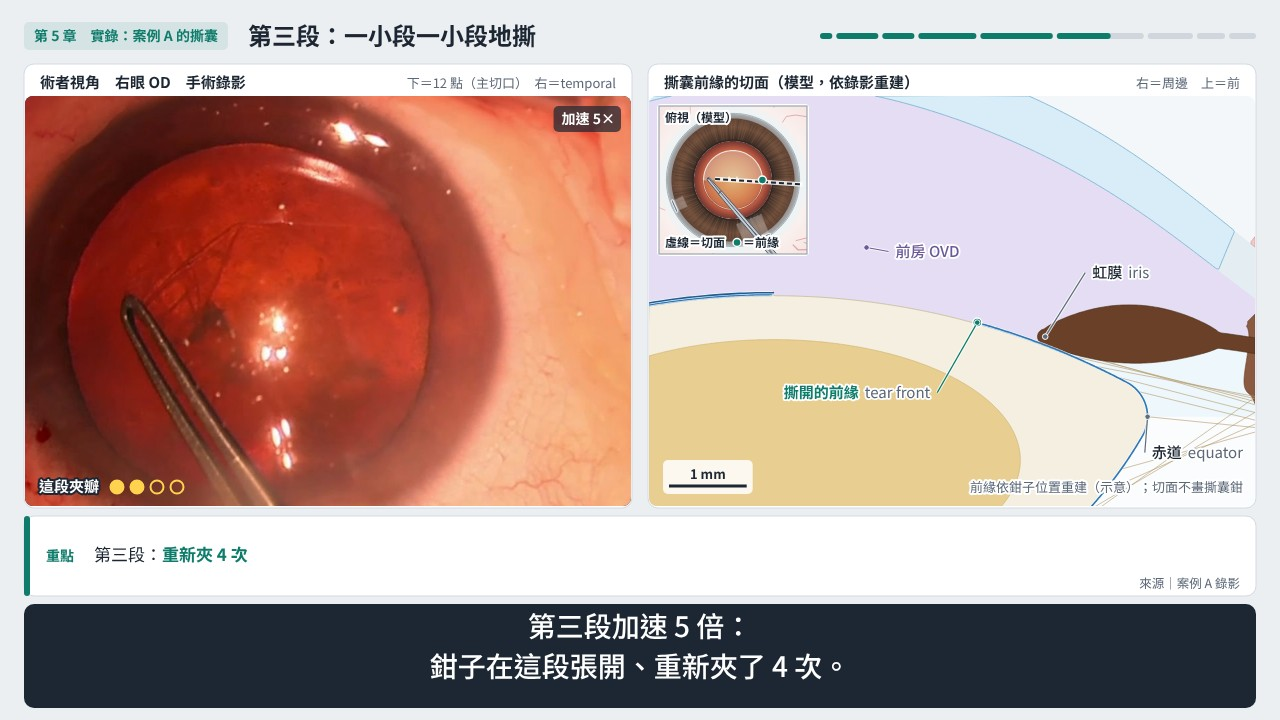
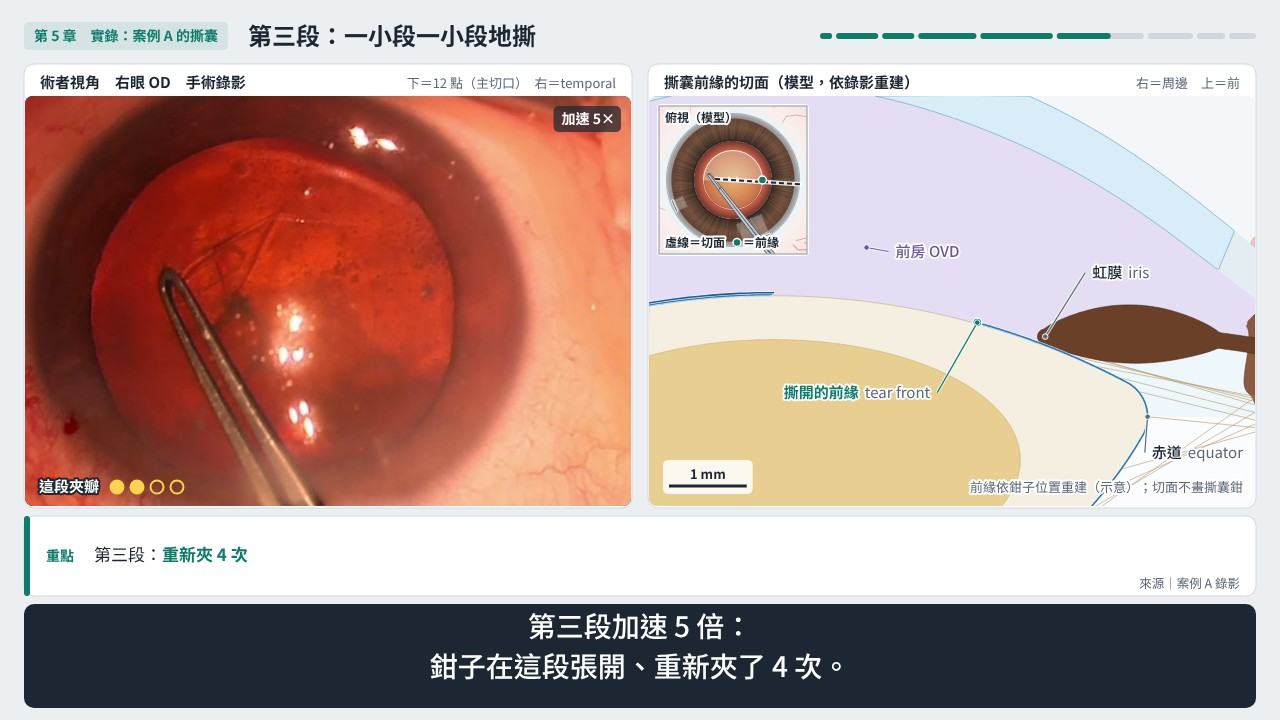
白內障 ①：5-6 旁白照錄影順序改成「先補 OVD 再擦血」；片段播完停在最後一格時標「停格」
重新合成語音後時間軸微移（551.9→552.4 s），6 張參考圖換成相鄰的錄影格（Claude 自檢）；發佈檔的章節時間同步。

Claude-Session: https://claude.ai/code/session_01UTYneMUKRrc1Hex89Apcyj

diff --git a/videos/src/cataract-1-wound-ccc/anim/timeline.js b/videos/src/cataract-1-wound-ccc/anim/timeline.js
@@ -1,1 +1,1 @@
-window.TIMELINE = {"segs": {"title": {"t0": 0.0, "t1": 16.752, "lines": [[1.0, 6.261], [6.711, 12.137], [12.587, 15.552]]}, "c1": {"t0": 16.752, "t1": 19.552, "lines": []}, "1-1": {"t0": 19.552, "t1": 45.095, "lines": [[20.252, 23.553], [24.003, 28.379], [28.829, 33.82], [34.27, 36.651], [37.101, 43.895]]}, "1-2": {"t0": 45.095, "t1": 74.155, "lines": [[45.795, 51.22], [51.67, 57.523], [57.973, 62.161], [62.611, 67.049], [67.499, 72.955]]}, "c2": {"t0": 74.155, "t1": 76.955, "lines": []}, "2-1": {"t0": 76.955, "t1": 95.08, "lines": [[77.655, 80.332], [80.782, 85.356], [85.806, 90.334], [90.784, 93.88]]}, "2-2": {"t0": 95.08, "t1": 117.996, "lines": [[95.78, 99.586], [100.036, 103.827], [104.277, 111.412], [111.862, 116.796]]}, "c3": {"t0": 117.996, "t1": 120.796, "lines": []}, "3-1": {"t0": 120.796, "t1": 140.872, "lines": [[121.496, 125.6], [126.05, 130.948], [131.398, 134.734], [135.184, 139.672]]}, "3-2": {"t0": 140.872, "t1": 173.731, "lines": [[141.572, 144.33], [144.78, 150.821], [151.271, 157.049], [157.499, 164.074], [164.524, 172.531]]}, "3-3": {"t0": 173.731, "t1": 197.223, "lines": [[174.431, 179.091], [179.541, 185.043], [185.493, 191.2], [191.65, 196.023]]}, "c4": {"t0": 197.223, "t1": 200.023, "lines": []}, "4-1": {"t0": 200.023, "t1": 237.651, "lines": [[200.723, 203.099], [203.549, 206.677], [207.127, 210.75], [211.2, 218.935], [219.385, 223.829], [224.279, 230.779], [231.229, 236.451]]}, "4-2": {"t0": 237.651, "t1": 263.702, "lines": [[238.351, 241.024], [241.474, 246.867], [247.317, 251.363], [251.813, 256.92], [257.37, 262.502]]}, "4-3": {"t0": 263.702, "t1": 296.112, "lines": [[264.402, 267.569], [268.019, 271.442], [271.892, 275.84], [276.29, 281.829], [282.279, 289.127], [289.577, 294.912]]}, "c5": {"t0": 296.112, "t1": 298.912, "lines": []}, "5-1": {"t0": 298.912, "t1": 322.658, "lines": [[299.612, 304.65], [305.1, 306.209], [306.659, 311.38], [311.83, 316.541], [316.991, 320.158]]}, "5-2": {"t0": 322.658, "t1": 334.59, "lines": [[323.358, 328.347], [328.797, 333.39]]}, "5-3": {"t0": 334.59, "t1": 345.577, "lines": [[335.29, 340.763], [341.213, 344.377]]}, "5-4": {"t0": 345.577, "t1": 362.899, "lines": [[346.277, 350.043], [350.493, 354.509], [354.959, 358.701], [359.151, 361.699]]}, "5-5": {"t0": 362.899, "t1": 376.803, "lines": [[363.599, 366.392], [366.842, 371.02], [371.47, 375.303]]}, "5-6": {"t0": 376.803, "t1": 399.154, "lines": [[377.503, 380.412], [380.862, 386.062], [386.512, 390.82], [391.27, 397.954]]}, "5-7": {"t0": 399.154, "t1": 414.937, "lines": [[399.854, 402.037], [402.487, 407.86], [408.31, 413.737]]}, "c6": {"t0": 414.937, "t1": 417.737, "lines": []}, "6-1": {"t0": 417.737, "t1": 436.629, "lines": [[418.437, 422.429], [422.879, 425.926], [426.376, 429.861], [430.311, 435.429]]}, "6-2": {"t0": 436.629, "t1": 453.059, "lines": [[437.329, 439.618], [440.068, 442.651], [443.101, 447.485], [447.935, 451.859]]}, "6-3": {"t0": 453.059, "t1": 476.682, "lines": [[453.759, 457.332], [457.782, 463.859], [464.309, 468.318], [468.768, 475.482]]}, "c7": {"t0": 476.682, "t1": 479.482, "lines": []}, "7": {"t0": 479.482, "t1": 515.096, "lines": [[480.182, 487.421], [487.871, 495.41], [495.86, 498.555], [499.005, 503.233], [503.683, 508.18], [508.63, 512.596]]}, "c8": {"t0": 515.096, "t1": 517.896, "lines": []}, "refs": {"t0": 517.896, "t1": 551.896, "lines": []}}, "total": 551.896};
+window.TIMELINE = {"segs": {"title": {"t0": 0.0, "t1": 16.54, "lines": [[1.0, 6.182], [6.632, 11.948], [12.398, 15.34]]}, "c1": {"t0": 16.54, "t1": 19.34, "lines": []}, "1-1": {"t0": 19.34, "t1": 45.046, "lines": [[20.04, 23.433], [23.883, 28.25], [28.7, 33.715], [34.165, 36.607], [37.057, 43.846]]}, "1-2": {"t0": 45.046, "t1": 74.096, "lines": [[45.746, 51.174], [51.624, 57.487], [57.937, 62.144], [62.594, 67.036], [67.486, 72.896]]}, "c2": {"t0": 74.096, "t1": 76.896, "lines": []}, "2-1": {"t0": 76.896, "t1": 95.049, "lines": [[77.596, 80.279], [80.729, 85.314], [85.764, 90.3], [90.75, 93.849]]}, "2-2": {"t0": 95.049, "t1": 118.05, "lines": [[95.749, 99.557], [100.007, 103.828], [104.278, 111.471], [111.921, 116.85]]}, "c3": {"t0": 118.05, "t1": 120.85, "lines": []}, "3-1": {"t0": 120.85, "t1": 140.93, "lines": [[121.55, 125.634], [126.084, 130.992], [131.442, 134.757], [135.207, 139.73]]}, "3-2": {"t0": 140.93, "t1": 173.849, "lines": [[141.63, 144.431], [144.881, 150.91], [151.36, 157.144], [157.594, 164.169], [164.619, 172.649]]}, "3-3": {"t0": 173.849, "t1": 197.433, "lines": [[174.549, 179.386], [179.836, 185.241], [185.691, 191.379], [191.829, 196.233]]}, "c4": {"t0": 197.433, "t1": 200.233, "lines": []}, "4-1": {"t0": 200.233, "t1": 237.952, "lines": [[200.933, 203.476], [203.926, 207.032], [207.482, 211.089], [211.539, 219.263], [219.713, 224.148], [224.598, 231.097], [231.547, 236.752]]}, "4-2": {"t0": 237.952, "t1": 263.738, "lines": [[238.652, 241.338], [241.788, 246.994], [247.444, 251.455], [251.905, 257.012], [257.462, 262.538]]}, "4-3": {"t0": 263.738, "t1": 296.478, "lines": [[264.438, 267.766], [268.216, 271.639], [272.089, 276.198], [276.648, 282.176], [282.626, 289.502], [289.952, 295.278]]}, "c5": {"t0": 296.478, "t1": 299.278, "lines": []}, "5-1": {"t0": 299.278, "t1": 323.061, "lines": [[299.978, 305.074], [305.524, 306.637], [307.087, 311.783], [312.233, 316.947], [317.397, 320.561]]}, "5-2": {"t0": 323.061, "t1": 335.0, "lines": [[323.761, 328.762], [329.212, 333.8]]}, "5-3": {"t0": 335.0, "t1": 345.992, "lines": [[335.7, 341.217], [341.667, 344.792]]}, "5-4": {"t0": 345.992, "t1": 363.311, "lines": [[346.692, 350.464], [350.914, 354.909], [355.359, 359.126], [359.576, 362.111]]}, "5-5": {"t0": 363.311, "t1": 377.419, "lines": [[364.011, 366.828], [367.278, 371.461], [371.911, 375.919]]}, "5-6": {"t0": 377.419, "t1": 399.807, "lines": [[378.119, 381.07], [381.52, 386.713], [387.163, 391.482], [391.932, 398.607]]}, "5-7": {"t0": 399.807, "t1": 415.443, "lines": [[400.507, 402.695], [403.145, 408.533], [408.983, 414.243]]}, "c6": {"t0": 415.443, "t1": 418.243, "lines": []}, "6-1": {"t0": 418.243, "t1": 436.901, "lines": [[418.943, 422.903], [423.353, 426.397], [426.847, 430.24], [430.69, 435.701]]}, "6-2": {"t0": 436.901, "t1": 453.232, "lines": [[437.601, 439.902], [440.352, 442.942], [443.392, 447.65], [448.1, 452.032]]}, "6-3": {"t0": 453.232, "t1": 477.069, "lines": [[453.932, 457.571], [458.021, 464.082], [464.532, 468.745], [469.195, 475.869]]}, "c7": {"t0": 477.069, "t1": 479.869, "lines": []}, "7": {"t0": 479.869, "t1": 515.57, "lines": [[480.569, 487.812], [488.262, 495.82], [496.27, 498.929], [499.379, 503.663], [504.113, 508.634], [509.084, 513.07]]}, "c8": {"t0": 515.57, "t1": 518.37, "lines": []}, "refs": {"t0": 518.37, "t1": 552.37, "lines": []}}, "total": 552.37};

diff --git a/videos/src/cataract-1-wound-ccc/anim/segments.js b/videos/src/cataract-1-wound-ccc/anim/segments.js
@@ -167,11 +167,11 @@ const SEGS = [
   keys: [[1, '第三段：<b>重新夾 4 次</b>'], [2, '一小段一小段撕：拉力小、方向好控制']],
   src: [[0, '案例 A 錄影'], [2, 'Karim 2010']] },
 { id: '5-6', ch: 5, title: '第四段，取出前囊瓣', layout: 'dual',
-  lines: ['再一次擦血，這次經主切口補 OVD。',
+  lines: ['這次先經主切口補 OVD，再擦一次血。',
           '第四段：把最後一段撕完，前緣接回起點。\n這兩段都加速 6 倍。',
           '撕下來的前囊瓣，用鉗子從主切口帶出來。這段放慢一半。',
           '本例從夾破前囊到取出前囊瓣約 4 分鐘：\n鉗子進出 4 次、夾瓣 8 次、補 OVD 3 次。'],
-  keys: [[0, '擦血 → 經主切口<b>補 OVD</b>（撕囊中第 3 次）'],
+  keys: [[0, '經主切口<b>補 OVD</b>（撕囊中第 3 次）→ 擦血'],
          [1, '第四段：撕完最後一段，<b>接回起點</b>'],
          [3, '本例：約 <b>4 分鐘</b>；鉗子進出 <b>4</b> 次、夾瓣 <b>8</b> 次、補 OVD <b>3</b> 次']],
   src: [[0, '案例 A 錄影']] },

diff --git a/videos/tools/video-kit/footage.js b/videos/tools/video-kit/footage.js
@@ -55,7 +55,8 @@
       if (tau < vf + f.dur) return { s: f.at, frozen: f };
       s = f.at; v = vf + f.dur;
     }
-    return { s: Math.min(c.out, s + (tau - v) * r), frozen: null };
+    const s1 = s + (tau - v) * r;                        // past the clip end the last frame is held: show it as 停格, not at the clip's rate
+    return s1 >= c.out ? { s: c.out, frozen: { at: c.out, held: true } } : { s: s1, frozen: null };
   }
   // source time → the first video time at which it is shown (an event on a freeze → the start of the freeze)
   function videoTime(c, s) {

diff --git a/videos/src/cataract-1-wound-ccc/script-draft.md b/videos/src/cataract-1-wound-ccc/script-draft.md
@@ -288,14 +288,14 @@
 
 **旁白（＝字幕）與每句的來源：**
 
-1. 再一次擦血，這次經主切口補 OVD。　〔案例 A 錄影〕
+1. 這次先經主切口補 OVD，再擦一次血。　〔案例 A 錄影〕（錄影：補 OVD 4:00–4:08，擦切口的血 4:12–4:26）
 2. 第四段：把最後一段撕完，前緣接回起點。這兩段都加速 6 倍。　〔案例 A 錄影〕
 3. 撕下來的前囊瓣，用鉗子從主切口帶出來。這段放慢一半。　〔案例 A 錄影〕
 4. 本例從夾破前囊到取出前囊瓣約 4 分鐘：鉗子進出 4 次、夾瓣 8 次、補 OVD 3 次。　〔案例 A 錄影〕
 
 **重點框：**
 
-- 第 1 句起：擦血 → 經主切口**補 OVD**（撕囊中第 3 次）
+- 第 1 句起：經主切口**補 OVD**（撕囊中第 3 次）→ 擦血
 - 第 2 句起：第四段：撕完最後一段，**接回起點**
 - 第 4 句起：本例：約 **4 分鐘**；鉗子進出 **4** 次、夾瓣 **8** 次、補 OVD **3** 次
 
